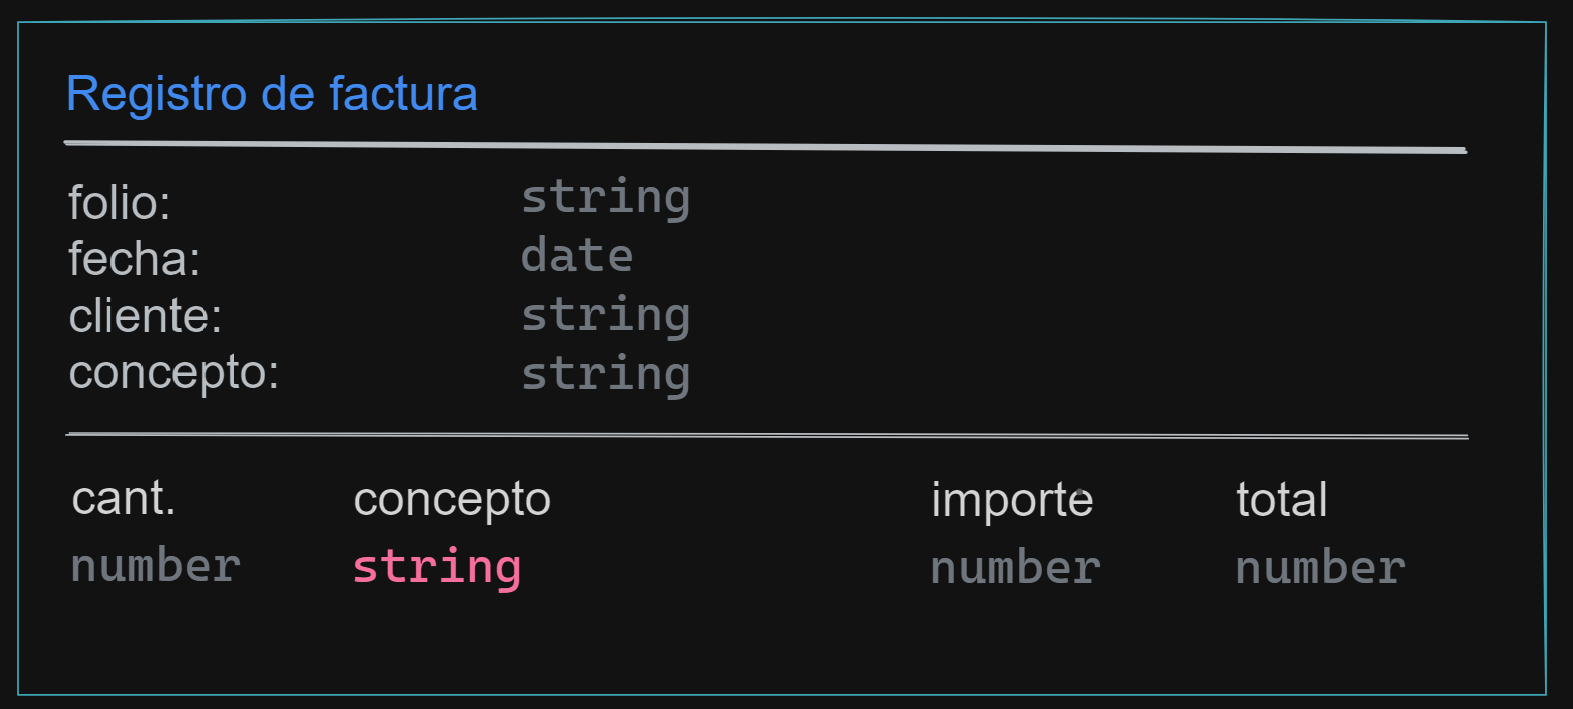
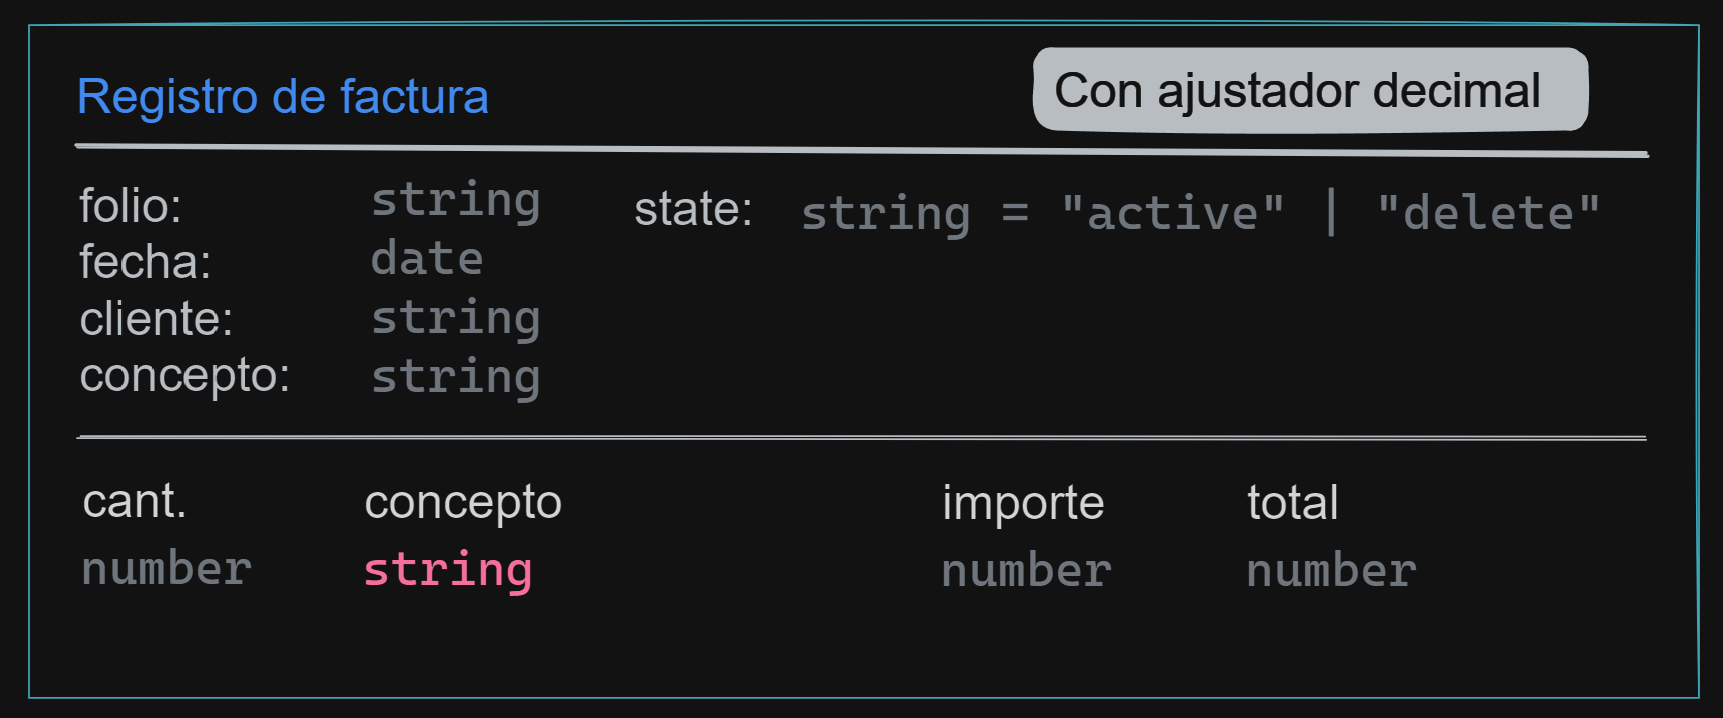
Ejercicio de entranamiento

diff --git a/README.md b/README.md
@@ -1,0 +1,189 @@
+# Aplicación de conocimientos
+
+## Formula
+
+<p align="center">
+  <a href="#" target="blank"><img src="./documents/images/formula.png" width="600" alt="Nest Logo" /></a>
+</p>
+
+## Cliente
+
+<p align="center">
+  <a href="#" target="blank"><img src="./documents/images/cliente.png" width="400" alt="Nest Logo" /></a>
+</p>
+
+- Operaciones
+
+  - create
+  - update
+  - getByCode
+
+- Validación
+
+  - Que no exista código repetido
+
+- Observaciones
+  - Id autogenerada
+  - código único en base de datos
+
+### Create
+
+```sql
+  const input = {
+    register: client,
+  }
+
+  -- Instrucción SQL
+  SELECT providers.client_create($1);
+
+  -- Retorno: Array de objeto de tipo client
+```
+
+### Update
+
+```sql
+
+  const id = client.id
+
+  const input = {
+    register: client,
+  }
+
+  -- Instrucción SQL
+  SELECT providers.client_update($1, $2);
+
+  -- Retorno: Array de objeto de tipo client
+```
+
+### GetByCode
+
+```sql
+
+  const code = client.code
+
+  -- Instrucción SQL
+  SELECT * from providers.client_get_by_code($1);
+
+  -- Retorno: Array objeto de tipo client
+```
+
+## Factura
+
+<p align="center">
+  <a href="#" target="blank"><img src="./documents/images/factura.png" width="600" alt="Nest Logo" /></a>
+</p>
+
+- Operaciones
+
+  - create
+  - update
+  - getById
+  - getAll
+  - updateStateByID
+
+- Validaciones
+
+  - Validar que el folio no exista
+  - El registro de la factura debe cuadrar con el total de la factura impresa (simulación) es decir debe recibir como parámetro el total impreso.
+  - Solo puede existir diferencia a nivel de decimales.
+
+- Observaciones
+  - Aplicar la estrategia de ajuste de decimales solo si existe diferencia
+  - getAll se debe especificar que estado de los datos requiero (all, active, delete)
+
+### Create
+
+```sql
+  const input = {
+    register: invoice,
+  }
+
+  -- Instrucción SQL
+  SELECT providers.invoice_create($1);
+
+  -- Retorno: Array objeto de tipo  invoice
+```
+
+### Update
+
+```sql
+
+  const id = invoice.id
+
+  const input = {
+    register: invoice
+  }
+
+  -- Instrucción SQL
+  SELECT providers.invoice_update($1, $2);
+
+  -- Retorno: Array objeto de tipo invoice
+```
+
+### GetById
+
+```sql
+
+  const id = invoice.id
+
+  -- Instrucción SQL
+  SELECT * from providers.invoice_get_by_id($1);
+
+  -- Retorno: Array objeto de tipo invoice
+```
+
+### GetByAll
+
+```sql
+
+  const state = "all" | "active" | "delete"
+
+  -- Instrucción SQL
+  SELECT * from providers.invoice_get_by_all($1);
+
+  -- Retorno: Array objeto de tipo invoice
+```
+
+### UpdateStateById
+
+```sql
+
+  const id = invoice.id
+  const state = "all" | "active" | "delete"
+
+  -- Instrucción SQL
+  SELECT providers.invoice_update_state_by_id($1, $2);
+
+  -- Retorno: Array objeto de tipo invoice
+```
+
+## Arquitectura
+
+<p align="center">
+  <a href="#" target="blank"><img src="./documents/images/arquitectura.png" width="200" alt="Nest Logo" /></a>
+</p>
+
+## Planificación
+
+- Aplicar principios SOLID
+
+- Se debe aplicar arquitectura
+
+- Aplicar los test unitarios correspondientes
+  - system/tools/...
+  - modules/cliente/...
+  - modules/factura/...
+
+## Clonación
+
+[Repositorio - https://github.com/gposoft/dev-invoice](https://github.com/gposoft/dev-invoice)
+
+```bash
+  clone https://github.com/gposoft/dev-invoice.git
+```
+
+Para poder correr el proyecto se debe hacer primero la instalación de los paquetes
+
+```bash
+  npm install
+```
